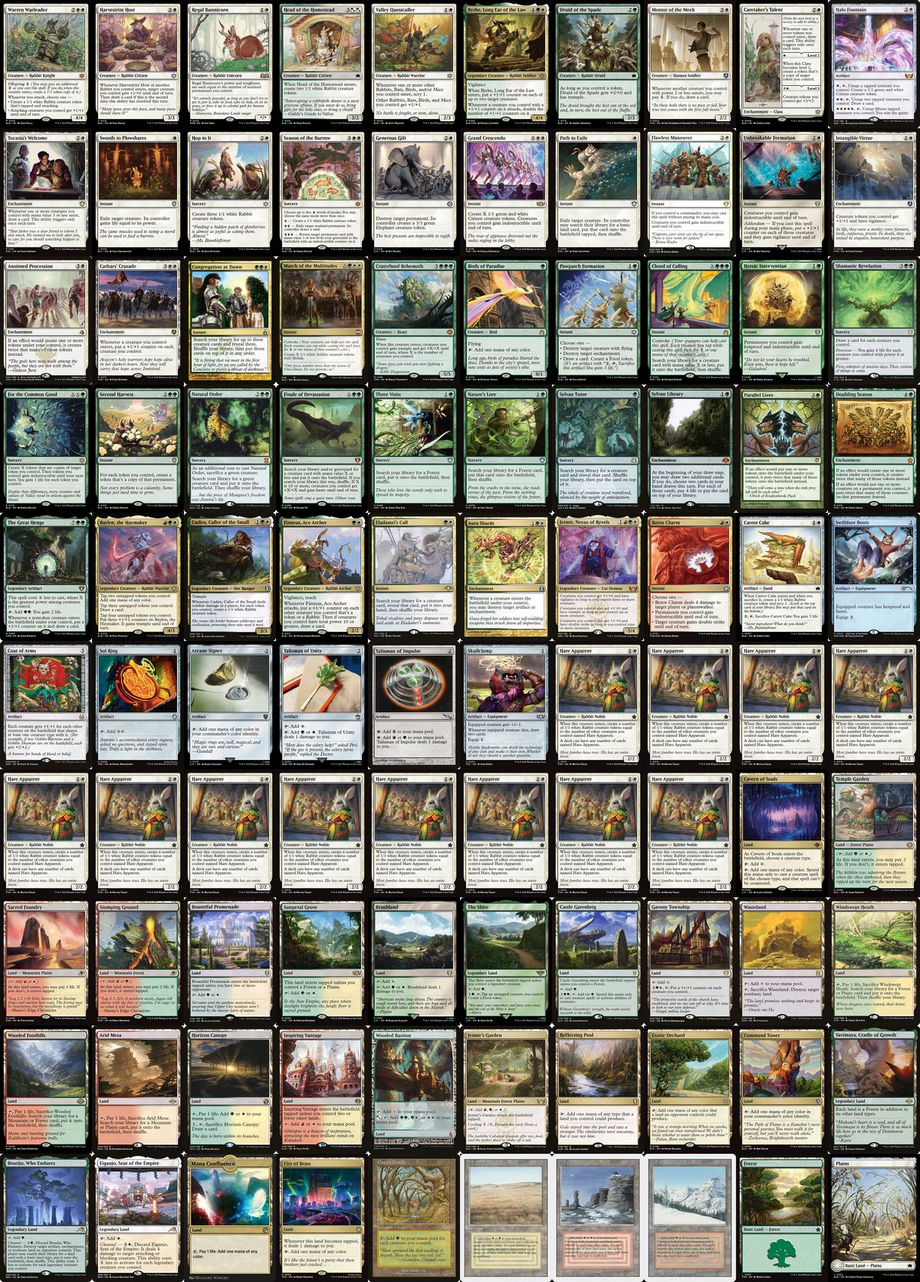
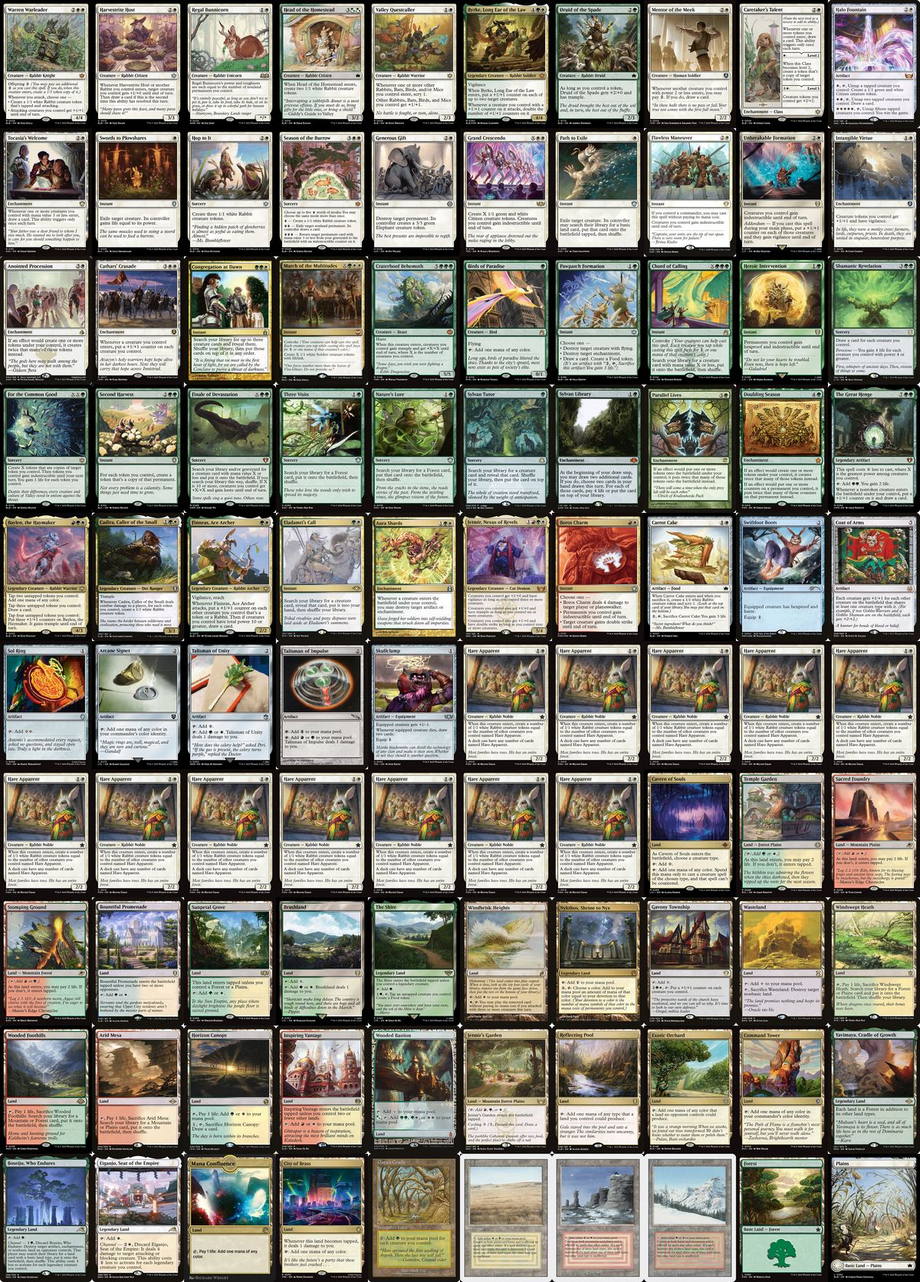
Swap Natural Order → Nykthos, Castle Garenbrig → Windbrisk Heights
Both decks:
- Cut Natural Order (not enough green creatures to sacrifice)
- Cut Castle Garenbrig (6 green mana for creatures rarely useful)
- Add Nykthos, Shrine to Nyx (devotion from Hare Apparent = 10+ mana)
- Add Windbrisk Heights (free spell on 3+ attackers — trivially easy)
- Land count 31→32 in both variants
- Updated theme_analysis, README, mosaic script, regenerated all images

Changed region(s): [[0.0, 0.2799, 1.0, 0.622], [0.0, 0.5909, 1.0, 0.8086]]

diff --git a/scripts/generate_mosaic.py b/scripts/generate_mosaic.py
@@ -51,7 +51,7 @@ ORDERED_NAMES_B4 = [
     "Shamanic Revelation",
     # Row 4: Green sorceries + enchantments (bunny art first)
     "For the Common Good", "Second Harvest",
-    "Natural Order", "Finale of Devastation",
+    "Finale of Devastation",
     "Three Visits", "Nature's Lore", "Worldly Tutor",
     "Sylvan Library", "Parallel Lives",
     # Row 5: More green enchantments + multicolor (bunnies first)
@@ -73,7 +73,7 @@ ORDERED_NAMES_B4 = [
     # Row 8: Modern lands — shocks + checklands + utility
     "Temple Garden", "Sacred Foundry", "Stomping Ground",
     "Bountiful Promenade", "Sunpetal Grove", "Brushland",
-    "The Shire", "Castle Garenbrig", "Gavony Township",
+    "The Shire", "Windbrisk Heights", "Nykthos, Shrine to Nyx", "Gavony Township",
     "Wasteland",
     # Row 9: Fetches + mana-fixing lands
     "Windswept Heath", "Wooded Foothills", "Arid Mesa",
@@ -112,7 +112,7 @@ ORDERED_NAMES_B3 = [
     "Shamanic Revelation",
     # Row 4: Green sorceries + enchantments (bunny art first)
     "For the Common Good", "Second Harvest",
-    "Natural Order", "Finale of Devastation",
+    "Finale of Devastation",
     "Three Visits", "Nature's Lore", "Sylvan Tutor",
     "Sylvan Library", "Parallel Lives",
     # Row 5: More green enchantments + multicolor (bunnies first)
@@ -134,7 +134,7 @@ ORDERED_NAMES_B3 = [
     # Row 8: Modern lands — shocks + checklands + utility
     "Temple Garden", "Sacred Foundry", "Stomping Ground",
     "Bountiful Promenade", "Sunpetal Grove", "Brushland",
-    "The Shire", "Castle Garenbrig", "Gavony Township",
+    "The Shire", "Windbrisk Heights", "Nykthos, Shrine to Nyx", "Gavony Township",
     "Wasteland",
     # Row 9: Lands continued
     "Windswept Heath", "Wooded Foothills", "Arid Mesa",

diff --git a/theme_analysis.md b/theme_analysis.md
@@ -67,7 +67,7 @@
 
 ---
 
-## Sorceries (10)
+## Sorceries (9)
 
 | Card | Deck | Scryfall | Rabbit? | Rabbit Art? | Party? | Theme | Justification |
 |------|------|----------|---------|-------------|--------|-------|---------------|
@@ -75,7 +75,6 @@
 | For the Common Good | Both | [🔗](https://scryfall.com/card/blb/172/for-the-common-good) | ❌ | ✅ | ✅ | 9 | The toast of the evening. Everyone raises a glass and suddenly there are X copies of your best token — each one indestructible until your next turn. A community celebration that leaves everyone standing. |
 | Hop to It | Both | [🔗](https://scryfall.com/card/blb/16/hop-to-it) | ❌ | ✅ | ✅ | 9 | Three bunnies hop out of nowhere. The party just tripled. Simple, efficient, on-theme — three 1/1 Rabbit tokens for three mana. "Hop to it!" is what Baylen says when the appetizers run out. |
 | Shamanic Revelation | Both | [🔗](https://scryfall.com/card/c19/180/shamanic-revelation) | ❌ | ❌ | ✅ | 5 | The mystical intermission. Everyone gathers in a circle for wisdom — draw a card for each creature you control, gain 4 life if any has power 4+. The bigger the crowd, the deeper the revelation. |
-| Natural Order | Both | [🔗](https://scryfall.com/card/ema/177/natural-order) | ❌ | ❌ | ✅ | 5 | One guest takes a hit so the main act can make a grand entrance. Sacrifice a 1/1 rabbit at the feast, Craterhoof rises over the canopy, and suddenly every creature at the table is swinging for lethal. The natural order of every good party: small talk, then the headliner. |
 | Finale of Devastation | Both | [🔗](https://scryfall.com/card/cmm/289/finale-of-devastation) | ❌ | ❌ | ✅ | 6 | The grand finale — the moment Baylen stands up from the table, the canopy parts, and Craterhoof crashes through. Cast for X=10+ and everything gets +X/+X and haste. The party ends in devastation. For your opponents. |
 | Three Visits | Both | [🔗](https://scryfall.com/card/soc/289/three-visits) | ❌ | ❌ | ✅ | 4 | A few friends stop by the grove to pick up supplies before the main event. Fetches a Forest untapped — efficient prep work for the big night. |
 | Nature's Lore | Both | [🔗](https://scryfall.com/card/soc/278/natures-lore) | ❌ | ❌ | ❌ | 3 | Scouting the perfect party venue in the forest. Finds a Forest land and puts it into play untapped. Good logistics, no flavor. |
@@ -121,7 +120,7 @@
 
 ---
 
-## Lands (37)
+## Lands (38)
 
 | Card | Deck | Scryfall | Rabbit? | Rabbit Art? | Party? | Theme | Justification |
 |------|------|----------|---------|-------------|--------|-------|---------------|
@@ -132,7 +131,8 @@
 | Taiga | Both | [🔗](https://scryfall.com/card/3ed/287/taiga) | ❌ | ❌ | ❌ | 3 | The wild forest clearing. Red-green dual — this is where the bonfires burn after the main event. |
 | The Shire | Both | [🔗](https://scryfall.com/card/ltr/260/the-shire) | ❌ | ❌ | ✅ | 7 | The coziest venue on the guest list. Hobbit-holes and rabbit warrens share the same architectural philosophy — round doors, warm hearths, second breakfasts. The Shire IS a perpetual party. |
 | Gavony Township | Both | [🔗](https://scryfall.com/card/c20/276/gavony-township) | ❌ | ❌ | ✅ | 5 | The town square where everyone gathers to get pumped. Tap four mana and every creature gets a +1/+1 counter. The township rallies together — it's a community event. |
-| Castle Garenbrig | Both | [🔗](https://scryfall.com/card/eld/240/castle-garenbrig) | ❌ | ❌ | ❌ | 3 | The castle venue booked for the big green spells. Taps for six green mana toward creatures — overkill for most parties, but perfect for dropping Craterhoof. |
+| Windbrisk Heights | Both | [🔗](https://scryfall.com/card/lrw/281/windbrisk-heights) | ❌ | ❌ | ✅ | 7 | The secret room behind the bookcase where the real party happens. Attack with three creatures — trivially easy — and the hidden card plays for free. Sometimes it's Craterhoof. Sometimes it's Doubling Season. Either way, the surprise guest steals the show. |
+| Nykthos, Shrine to Nyx | Both | [🔗](https://scryfall.com/card/ths/223/nykthos-shrine-to-nyx) | ❌ | ❌ | ✅ | 6 | The shrine where the party pilgrims gather. Every white pip on every Hare Apparent, every Anointed Procession, every Cathars' Crusade adds to the devotion — the bigger the crowd, the more the shrine pulses with energy. Taps for 10+ mana when the celebration hits critical mass. |
 | Bountiful Promenade | Both | [🔗](https://scryfall.com/card/clb/348/bountiful-promenade) | ❌ | ❌ | ✅ | 6 | The tree-lined walkway to the party entrance. Enters untapped in multiplayer, produces green or white — the scenic route to the celebration. |
 | Sunpetal Grove | Both | [🔗](https://scryfall.com/card/tdc/399/sunpetal-grove) | ❌ | ❌ | ✅ | 4 | The sunlit garden where the daytime party happens. Green-white checkland that's almost always untapped with your shock/dual-heavy mana base. |
 | Reflecting Pool | Both | [🔗](https://scryfall.com/card/clb/358/reflecting-pool) | ❌ | ❌ | ✅ | 4 | The ornamental reflecting pool in the party garden. Mirrors whatever mana your other lands produce — flexible, pretty, and exactly the kind of thing a well-planned party venue has. |
@@ -170,21 +170,21 @@
 | Category | Total Cards | Avg Theme | Rabbits | Rabbit Art | Party | Both | B3 Only | B4 Only |
 |----------|-------------|-----------|---------|------------|-------|------|---------|---------|
 | Commander | 1 | 10.0 | 1 | 1 | 1 | 1 | 0 | 0 |
-| Creatures | 14 | 7.8 | 9 | 10 | 14 | 13 | 1 | 0 |
+| Creatures | 14 | 7.9 | 9 | 10 | 14 | 13 | 1 | 0 |
 | Instants | 16 | 4.6 | 0 | 3 | 10 | 12 | 2 | 2 |
-| Sorceries | 10 | 5.4 | 0 | 3 | 6 | 8 | 1 | 1 |
+| Sorceries | 9 | 5.7 | 0 | 3 | 6 | 7 | 1 | 1 |
 | Artifacts | 12 | 4.4 | 0 | 2 | 9 | 8 | 2 | 2 |
 | Enchantments | 11 | 4.8 | 0 | 1 | 8 | 9 | 0 | 2 |
-| Lands | 37 | 3.2 | 0 | 0 | 15 | 26 | 6 | 5 |
-| **Total** | **101** | **4.7** | **10** | **20** | **63** | **77** | **12** | **12** |
+| Lands | 38 | 3.4 | 0 | 0 | 17 | 27 | 6 | 5 |
+| **Total** | **101** | **4.8** | **10** | **20** | **65** | **77** | **12** | **12** |
 
 ### Key Takeaways
 
 - **10 of 101 unique cards are Rabbits** by creature type — the tribal core is tight and focused.
 - **20 cards feature rabbit art** — almost all Bloomburrow (BLB) originals.
-- **63 of 101 cards have a party connection** — over half the deck tells the "Somebunny is Having a Party" story through name, flavor, or function.
+- **65 of 101 cards have a party connection** — over half the deck tells the "Somebunny is Having a Party" story through name, flavor, or function.
 - **77 cards are shared** between B3 and B4 — the core identity is the same across both brackets.
 - **12 cards are unique to each variant** — B4 gains power (Mox Diamond, Teferi's Protection, Survival of the Fittest) while B3 keeps budget-friendly alternatives (Talismans, Flawless Maneuver, Druid of the Spade).
-- **Highest theme density**: Creatures (avg 7.8) and Sorceries (avg 5.4) — the rabbits and their party activities carry the theme.
-- **Lowest theme density**: Lands (avg 3.2) — necessary mana infrastructure, but The Shire, Jetmir's Garden, and Cavern of Souls are standout thematic lands.
+- **Highest theme density**: Creatures (avg 7.9) and Sorceries (avg 5.7) — the rabbits and their party activities carry the theme.
+- **Lowest theme density**: Lands (avg 3.4) — necessary mana infrastructure, but The Shire, Windbrisk Heights, Nykthos, and Cavern of Souls are standout thematic lands.
 - **Pure power cards with minimal theme**: Sol Ring, Chrome Mox, Skullclamp, Sylvan Library, Survival of the Fittest, Enlightened Tutor — these are here because they win games, not because they're invited to the party.

diff --git a/README.md b/README.md
@@ -6,7 +6,7 @@
 
 Baylen works the room like he was born for this — tap two bunnies and he fills the snack bowl, tap three and he draws the next surprise, tap four and the whole crowd surges with trample. Meanwhile, the crowd keeps multiplying — [Anointed Procession](https://scryfall.com/card/akh/2/anointed-procession), [Parallel Lives](https://scryfall.com/card/isd/199/parallel-lives), [Doubling Season](https://scryfall.com/card/fdn/216/doubling-season) — every rabbit that arrives brings a twin. Then the music gets louder. [Coat of Arms](https://scryfall.com/card/dds/58/coat-of-arms) makes the matching outfits dangerous, [Cathars' Crusade](https://scryfall.com/card/inr/17/cathars-crusade) hypes the crowd with every new arrival, and once [Jetmir, Nexus of Revels](https://scryfall.com/card/snc/193/jetmir-nexus-of-revels) counts enough heads, the dance floor becomes a stampede.
 
-And then, just when everybunny is having the time of their life, [Natural Order](https://scryfall.com/card/ema/177/natural-order) or [Finale of Devastation](https://scryfall.com/card/cmm/289/finale-of-devastation) sends out one last invitation — [Craterhoof Behemoth](https://scryfall.com/card/tdm/138/craterhoof-behemoth) crashes the party so hard the hedges won't grow back. Table flipped, cake gone, and the cute little party becomes an unstoppable woodland riot. Want a quieter ending? Get fifteen creatures gathered around the [Halo Fountain](https://scryfall.com/card/snc/15/halo-fountain) and the party closes itself out — no behemoth required.
+And then, just when everybunny is having the time of their life, [Finale of Devastation](https://scryfall.com/card/cmm/289/finale-of-devastation) sends out one last invitation — [Craterhoof Behemoth](https://scryfall.com/card/tdm/138/craterhoof-behemoth) crashes the party so hard the hedges won't grow back. Table flipped, cake gone, and the cute little party becomes an unstoppable woodland riot. Want a quieter ending? Get fifteen creatures gathered around the [Halo Fountain](https://scryfall.com/card/snc/15/halo-fountain) and the party closes itself out — no behemoth required.
 
 **Everybunny's invited. Not everybunny leaves.**
 
